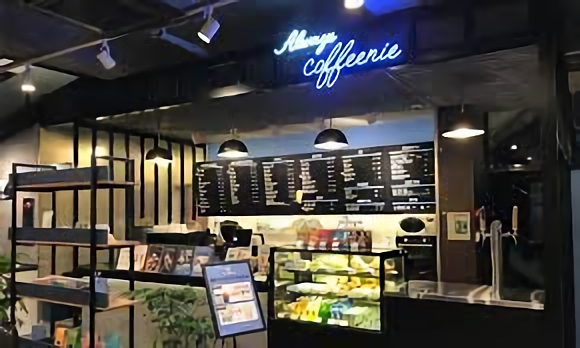
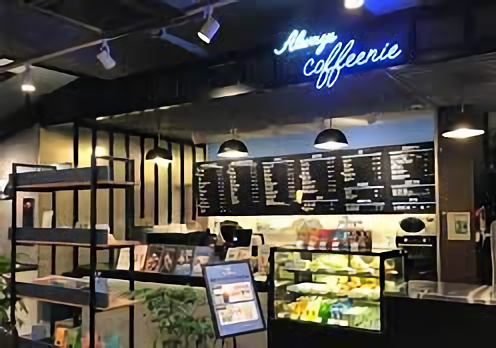
0308 reduce img size

diff --git a/src/css/style.css b/src/css/style.css
@@ -221,64 +221,83 @@ header {
 /***************************MV3  *****************************/
 #about {
   width: 100%;
-
+  height: fit-content;
+  position: relative;
   cursor: none;
 }
 .about_wrap {
   height: 90rem;
   flex-direction: column;
   display: flex;
+  background-color: #f6f6f6;
 }
 .about_content {
-  border: 2px solid #5a87c5;
+  position: relative;
+  box-sizing: border-box;
   font-family: "Pretendard-Regular";
   width: 66.66%;
-  margin: auto;
+  margin: 1.6rem auto;
   display: flex;
   padding: 4.8rem 0;
-  justify-content: space-around;
+  justify-content: space-between;
   align-items: center;
 }
 .about_content > div > div {
   font-family: "Montserrat";
   font-size: 3.2rem;
-  line-height: 1.25;
+  line-height: 1.3;
   font-weight: 400;
   word-break: keep-all;
-  color: #305488;
+  transition: 0.6s;
 }
 .about_content p {
-  font-family: "Inter";
-  font-size: 1.6rem;
+  font-family: "Montserrat";
+  font-size: 1.8rem;
   word-break: keep-all;
   line-height: 1.4;
-  margin: 1.4rem 0;
+  margin: 1.8rem 0 0;
+  color: black;
+}
+.about_con_1 {
+  margin-top: 6rem;
+  border: none;
+  color: #305488;
+  flex-basis: 1;
 }
 .about_con_2 {
-  text-align: right;
   flex-direction: row-reverse;
+  flex-basis: 4;
+  margin-bottom: 6rem;
 }
 .about_con_2 p {
   font-family: "Pretendard-Regular";
+  font-weight: 400;
 }
 .about_con_2 > div > div {
   font-family: "Pretendard-Regular";
+  color: #305488;
+  text-align: right;
 }
 .about_content > img {
   transition: 0.4s;
-  width: 40%;
+  max-width: 35%;
   height: auto;
 }
 
 /***************************MV4  *****************************/
 #membership {
+  position: relative;
   width: 100%;
   display: flex;
+  padding-top: 12rem;
   flex-direction: column;
+  height: 90rem;
 }
 #membership > div {
   width: 66.66%;
   margin: 0 auto;
+  display: flex;
+  justify-content: space-between;
 }
 
 /***************************ASIDE  *************************/
@@ -456,7 +475,9 @@ footer {
 }
 /* etc */
 .highlight {
-  background-color: #ffda23;
+  background-color: rgba(242, 206, 24, 0.85);
+  color: rgb(0, 0, 0);
+  font-weight: 700;
   padding: 0.2rem 0.4rem;
   box-sizing: border-box;
 }

diff --git a/index.html b/index.html
@@ -170,9 +170,9 @@
                 다양한 음료와 디저트를 마음껏 즐기세요.
               </div>
               <p>
-                커피:니는 누구나 언제든지 자유롭게 들려서<br />
-                맛의 즐거움을 느끼며 시간을 보낼 수 있도록 <br />
-                좋은 커피와 다양한 음료를 부담없는 가격에 제공하고 있으며,
+                커피:니는 누구나 언제든지 자유롭게 들려서 <br />맛의 즐거움을
+                느끼며 시간을 보낼 수 있도록 <br />좋은 커피와 다양한 음료를
+                부담없는 가격에 제공하고 있으며,
                 <br />
                 꾸준한 메뉴 개발과 관리를 통해 고객의 지속적인 만족을 위해
                 노력하고 있습니다.
@@ -187,11 +187,11 @@
         <div id="membership" class="membership_wrap">
           <div class="membership_content">
             <div>멤버십 혜택을 받아보세요!</div>
-            <img src="#" alt="membership" />
+            <img src="./src/img/logo_img.jpg" alt="membership" />
           </div>
           <div class="application">
             <div>커피니를 모바일에서 만나보세요!</div>
-            <img src="#" alt="mobile_app" />
+            <img src="./src/img/logo_img.jpg" alt="mobile_app" />
           </div>
         </div>
       </article>

diff --git a/src/css/animate.css b/src/css/animate.css
@@ -82,8 +82,15 @@
   background-color: rgba(255, 0, 0, 0.2);
   animation: invalid 0.6s ease;
 }
-.about_content > img:hover {
-  transform: translateY(-2px);
+.about_con_2 > img:hover {
+  transform: scale(0.98);
+}
+.about_con_1 > img:hover {
+  transform: rotateY(20deg);
+}
+.about_content > div > div:hover {
+  box-sizing: border-box;
+  background-color: rgba(242, 206, 24, 0.85);
 }
 /*  article 3~4  mouseEvent */
 #mouseEvent {

diff --git a/src/js/mouseEvent.js b/src/js/mouseEvent.js
@@ -3,7 +3,7 @@ $(document).ready(function () {
   const mouseCursor = $("#mouseEvent");
   const moveCursor = (e) => {
     // 세로스크롤 접근시 가로스크롤 생성 방지
-    if (e.pageX < $(window).innerWidth() - 5) {
+    if (e.pageX < $(window).innerWidth() - 10) {
       mouseCursor.css({
         left: e.pageX,
         top: e.pageY,
